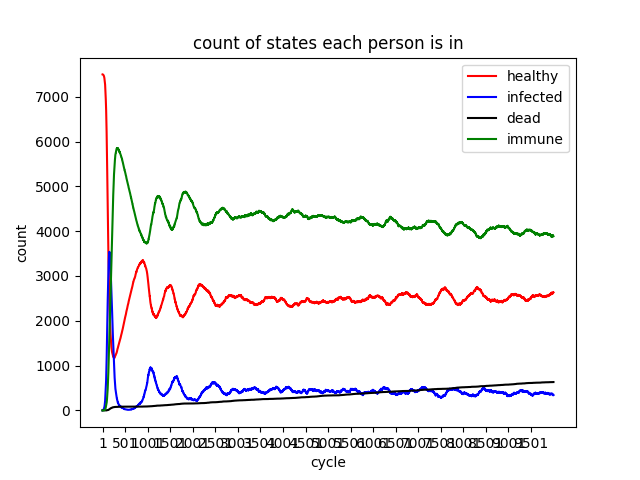
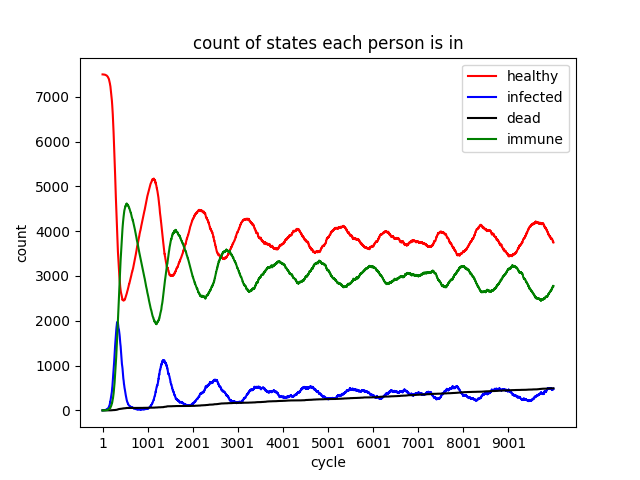
added early infection graph to model beginning of pandemic

Changed region(s): [[0.1562, 0.1562, 0.875, 0.875], [0.1562, 0.9062, 0.875, 0.9375]]

diff --git a/analysis/grapher.py b/analysis/grapher.py
@@ -21,6 +21,27 @@ def build_graph(tuple_list):
     plt.xticks(list(range(1, global_state.cycle_number, global_state.cycle_number//10)))
     plt.legend(handles=[line1,line2,line3,line4])
     plt.title('count of states each person is in')
-    plt.savefig('graphs/out.png')
+    plt.savefig('graphs/main_graph.png')
+    plt.clf()
+
+def build_early_infection_graph(tuple_list):
+    healthy = [x[0] for x in tuple_list][:global_state.cycle_number//10]
+    infected = [x[1] for x in tuple_list][:global_state.cycle_number//10]
+    dead = [x[2] for x in tuple_list][:global_state.cycle_number//10]
+    immune = [x[3] for x in tuple_list][:global_state.cycle_number//10]
+
+    x_axis = list(range(global_state.cycle_number//10))
+
+    _, ax1 = plt.subplots()
+    line1, = ax1.plot(x_axis, healthy, color='red', label='healthy')
+    line2, = ax1.plot(x_axis, infected, color='blue', label='infected')
+    line3, = ax1.plot(x_axis, dead, color='black', label='dead')
+    line4, = ax1.plot(x_axis, immune, color='green', label='immune')
+    ax1.set_ylabel('count')
+    ax1.set_xlabel('cycle')
+    plt.xticks(list(range(1, global_state.cycle_number//10, global_state.cycle_number//100)))
+    plt.legend(handles=[line1,line2,line3,line4])
+    plt.title('count of states each person is in')
+    plt.savefig('graphs/early_infection_graph.png')
     plt.clf()
 

diff --git a/main.py b/main.py
@@ -18,6 +18,7 @@ def main():
     simulator.scenario('PERSON')
     simulator.simulate(10000)
     grapher.build_graph(simulator.output)
+    grapher.build_early_infection_graph(simulator.output)
 
 
 
